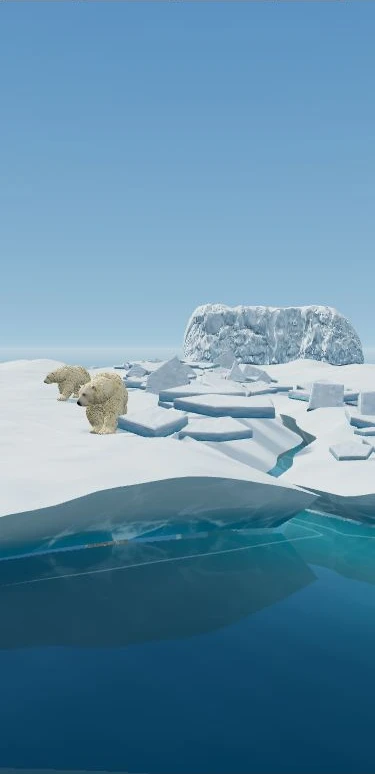
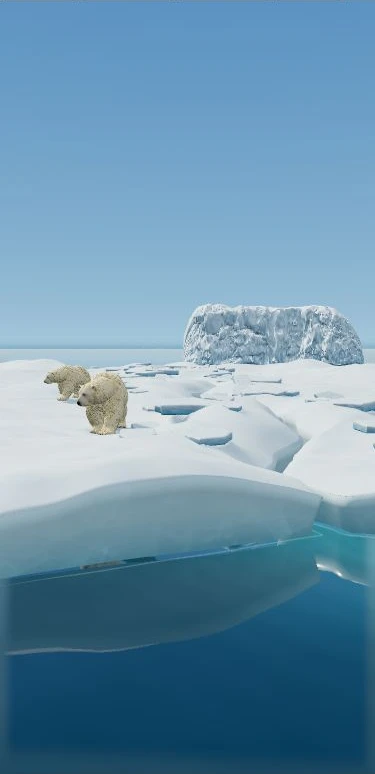
.

diff --git a/arctic-surfaces.js b/arctic-surfaces.js
@@ -1,6 +1,6 @@
 import * as THREE from './assets/vendor/three/three.module.js';
 import {GLTFLoader} from './assets/vendor/three/GLTFLoader.js';
-import './arctic-ice.js?v=00c14636b7';
+import './arctic-ice.js?v=b990c3418e';
 const I=globalThis.ArcticIce;
 
 // Bundled CC0 maps; phone variants use a quarter of the pixels.
@@ -18,13 +18,20 @@ export async function loadSurfaceTextures(low=false){
   return textures;
 }
 export function iceMaterial(){
-  const snow=new THREE.MeshStandardMaterial({color:'#f3faff',roughness:.83,vertexColors:true});
+  const snow=new THREE.MeshStandardMaterial({color:'#f3faff',roughness:.9,vertexColors:true,dithering:true});
   // Opaque scattering avoids glass transmission's screen-space refraction artefacts.
-  const blue=new THREE.MeshPhysicalMaterial({color:'#b0e8f2',roughness:.32,vertexColors:true,clearcoat:.3,clearcoatRoughness:.25,ior:1.31});
+  const blue=new THREE.MeshPhysicalMaterial({color:'#c2e1e9',roughness:.48,vertexColors:true,clearcoat:.1,clearcoatRoughness:.4,ior:1.31,dithering:true});
   for(const [index,material] of [snow,blue].entries()){
     material.onBeforeCompile=shader=>{
-      shader.vertexShader='varying vec3 vIcePoint;\n'+shader.vertexShader.replace('#include <begin_vertex>','#include <begin_vertex>\nvIcePoint=position;');
-      shader.fragmentShader='varying vec3 vIcePoint;\n'+shader.fragmentShader.replace('#include <color_fragment>','#include <color_fragment>\nfloat wetBand=1.-smoothstep(.015,.17,abs(vIcePoint.y));diffuseColor.rgb*=1.-wetBand*.13;\n'+(index===1?'float iceAlbedo=dot(diffuseColor.rgb,vec3(.21,.72,.07));diffuseColor.rgb=mix(vec3(.035,.24,.36),vec3(.62,.89,.96),smoothstep(.015,.65,iceAlbedo));float frost=smoothstep(.12,.68,vIcePoint.y);diffuseColor.rgb=mix(diffuseColor.rgb,vec3(.8,.93,.96),frost*.78);':''));
+      shader.vertexShader='varying vec3 vIcePoint;varying vec3 vIceNormal;\n'+shader.vertexShader.replace('#include <begin_vertex>','#include <begin_vertex>\nvIcePoint=position;vIceNormal=normal;');
+      shader.fragmentShader='varying vec3 vIcePoint;varying vec3 vIceNormal;\n'+shader.fragmentShader;
+      if(index===1){
+        // Object-space projection removes the long UV unwrap's stretched bands.
+        // Two rotated scales break up the recognisable square texture repeats.
+        shader.fragmentShader=shader.fragmentShader.replace('#include <map_pars_fragment>','#include <map_pars_fragment>\n#ifdef USE_MAP\nvec3 iceDetail(vec2 uv){vec2 rotated=mat2(.8,-.6,.6,.8)*uv*.713+vec2(.37,.61);return mix(texture2D(map,uv).rgb,texture2D(map,rotated).rgb,.5);}\n#endif');
+        shader.fragmentShader=shader.fragmentShader.replace('#include <map_fragment>','#ifdef USE_MAP\nvec3 weights=pow(abs(normalize(vIceNormal)),vec3(4.));weights/=max(dot(weights,vec3(1.)),.0001);vec3 p=vIcePoint*.24;vec3 detail=iceDetail(p.zy)*weights.x+iceDetail(p.xz)*weights.y+iceDetail(p.xy)*weights.z;diffuseColor.rgb*=mix(vec3(1.),detail,.38);\n#endif');
+      }
+      shader.fragmentShader=shader.fragmentShader.replace('#include <color_fragment>','#include <color_fragment>\nfloat wetBand=1.-smoothstep(.015,.17,abs(vIcePoint.y));diffuseColor.rgb*=1.-wetBand*.1;\n'+(index===1?'float frost=smoothstep(-.12,.72,vIcePoint.y);diffuseColor.rgb=mix(diffuseColor.rgb,vec3(.82,.91,.94),frost*.58);':''));
       if(index===1)shader.fragmentShader=shader.fragmentShader.replace('#include <emissivemap_fragment>','#include <emissivemap_fragment>\nfloat scatter=exp(-abs(vIcePoint.y+.5)*.38);totalEmissiveRadiance+=vec3(.008,.065,.09)*scatter;');
     };
   }
@@ -34,29 +41,42 @@ export function applyTextures(materials,textures){
   for(const [i,prefix] of ['snow','ice'].entries()){
     const m=materials[i];m.map=textures[prefix+'-color']||null;m.normalMap=textures[prefix+'-normal']||null;
     m.roughnessMap=textures[prefix+'-roughness']||null;m.displacementMap=textures[prefix+'-height']||null;
-    m.normalScale=new THREE.Vector2(i===1?.24:.38,i===1?.24:.38);m.displacementScale=i===1?.012:.025;m.displacementBias=-m.displacementScale*.5;m.needsUpdate=true;
+    m.normalScale=new THREE.Vector2(i===1?.14:.22,i===1?.14:.22);m.displacementScale=i===1?0:.012;m.displacementBias=-m.displacementScale*.5;m.needsUpdate=true;
   }
 }
 export function makeFloe(side,materials,low=false){
   const data=I.build(side,low?.5:1),geometry=new THREE.BufferGeometry();
   geometry.setAttribute('position',new THREE.Float32BufferAttribute(data.positions,3));geometry.setAttribute('color',new THREE.Float32BufferAttribute(data.colors,3));geometry.setAttribute('uv',new THREE.Float32BufferAttribute(data.uv,2));geometry.setIndex(data.indices);
   geometry.addGroup(0,data.topCount,0);geometry.addGroup(data.topCount,data.indices.length-data.topCount,1);geometry.computeVertexNormals();
+  // UVs stay separate, but the cap and wall share a smooth shoulder normal.
+  const normals=geometry.attributes.normal,n=data.ring.length,capStart=1+(data.radials-1)*n;
+  for(let k=0;k<=data.wallLayers;k++){
+    const first=data.wallStart+k*data.wallStride,last=first+n;
+    const normal=new THREE.Vector3().fromBufferAttribute(normals,first).add(new THREE.Vector3().fromBufferAttribute(normals,last)).normalize();
+    normals.setXYZ(first,normal.x,normal.y,normal.z);normals.setXYZ(last,normal.x,normal.y,normal.z);
+  }
+  for(let j=0;j<n;j++){
+    const cap=capStart+j,wall=data.wallStart+j;
+    const normal=new THREE.Vector3().fromBufferAttribute(normals,cap).add(new THREE.Vector3().fromBufferAttribute(normals,wall)).normalize();
+    normals.setXYZ(cap,normal.x,normal.y,normal.z);normals.setXYZ(wall,normal.x,normal.y,normal.z);
+    if(j===0)normals.setXYZ(data.wallStart+n,normal.x,normal.y,normal.z);
+  }
   const group=new THREE.Group(),mesh=new THREE.Mesh(geometry,materials);mesh.castShadow=mesh.receiveShadow=true;group.add(mesh);
   const chipMaterial=new THREE.MeshPhysicalMaterial({color:'#f4fbff',roughness:.52,clearcoat:.14,vertexColors:true});group.userData.rubbleMaterial=chipMaterial;
-  const pose=new THREE.Object3D(),perVariant=low?14:23;
-  // Broad thin plates with bevelled snow rims, rather than round rock-like chunks.
+  const pose=new THREE.Object3D(),perVariant=low?10:17;
+  // Fewer weathered pieces, partly embedded in snow, with varied rounded outlines.
   for(let variant=0;variant<5;variant++){
-    const shape=new THREE.Shape(),corners=4+variant%3;
+    const shape=new THREE.Shape(),corners=7+variant%4;
     for(let j=0;j<corners;j++){const angle=j/corners*Math.PI*2+.25*(I.noise(j,variant)-.5),r=.34+.28*I.noise(j+variant*7,4),x=Math.cos(angle)*r,z=Math.sin(angle)*r;if(j)shape.lineTo(x,z);else shape.moveTo(x,z);}shape.closePath();
-    const plate=new THREE.ExtrudeGeometry(shape,{depth:.19,bevelEnabled:true,bevelThickness:.035,bevelSize:.04,bevelSegments:2,steps:1,curveSegments:1});
+    const plate=new THREE.ExtrudeGeometry(shape,{depth:.19,bevelEnabled:true,bevelThickness:.045,bevelSize:.065,bevelSegments:3,steps:1,curveSegments:1});
     plate.rotateX(-Math.PI/2);plate.translate(0,-.095,0);
     const points=plate.attributes.position,colours=[];
     for(let j=0;j<points.count;j++){const snow=Math.max(0,Math.min(1,(points.getY(j)+.06)/.14));colours.push(.26+snow*.68,.67+snow*.3,.83+snow*.17);}plate.setAttribute('color',new THREE.Float32BufferAttribute(colours,3));
     const chips=new THREE.InstancedMesh(plate,chipMaterial,perVariant);chips.castShadow=chips.receiveShadow=true;
     for(let j=0;j<perVariant;j++){
-      const i=j+variant*perVariant,z=12-I.noise(i+side*47,11)*52,x=I.seam(z)+(side===0?-1:1)*(1.0+I.noise(i+side*31,8)*2.1),s=i%6===0?1.1:.3+I.noise(i,2)*.65;
-      const tilt=i%5===0?.65+I.noise(i,9)*.65:I.noise(i,9)*.32;
-      pose.position.set(x,I.top(x,z)+.1+s*.12,z);pose.scale.set(s*(.8+I.noise(i,2)),s,s*(1.2+I.noise(i,5)));pose.rotation.set(tilt,i*1.3,(I.noise(i,4)-.5)*.55);pose.updateMatrix();chips.setMatrixAt(j,pose.matrix);
+      const i=j+variant*perVariant,z=12-I.noise(i+side*47,11)*52,x=I.seam(z)+(side===0?-1:1)*(1.3+I.noise(i+side*31,8)*2.2),s=i%9===0?.95:.25+I.noise(i,2)*.55;
+      const tilt=i%7===0?.35+I.noise(i,9)*.25:I.noise(i,9)*.16;
+      pose.position.set(x,I.top(x,z)-.02+s*.035,z);pose.scale.set(s*(.8+I.noise(i,2)),s,s*(1.2+I.noise(i,5)));pose.rotation.set(tilt,i*1.3,(I.noise(i,4)-.5)*.25);pose.updateMatrix();chips.setMatrixAt(j,pose.matrix);
     }group.add(chips);
   }
   const rim=[];for(let i=0;i<data.ring.length;i++){const a=data.ring[i],b=data.ring[(i+1)%data.ring.length];rim.push(a[0],.012,a[1],b[0],.012,b[1]);}

diff --git a/arctic-ice.js b/arctic-ice.js
@@ -2,6 +2,7 @@
 (function(host){
   'use strict';
   const mix=(a,b,t)=>a+(b-a)*t;
+  const smooth=(a,b,x)=>{const t=Math.max(0,Math.min(1,(x-a)/(b-a)));return t*t*(3-2*t);};
   const hash=(x,y)=>{const n=Math.sin(x*127.1+y*311.7)*43758.5453123;return n-Math.floor(n);};
   function noise(x,y){const ix=Math.floor(x),iy=Math.floor(y);let u=x-ix,v=y-iy;u=u*u*(3-2*u);v=v*v*(3-2*v);return mix(mix(hash(ix,iy),hash(ix+1,iy),u),mix(hash(ix,iy+1),hash(ix+1,iy+1),u),v);}
   function fbm(x,y){let value=0,amplitude=.55;for(let i=0;i<4;i++){value+=amplitude*noise(x,y);x=x*2.03+11.7;y=y*2.03-7.1;amplitude*=.47;}return value;}
@@ -47,9 +48,11 @@
     const push=(x,y,z,c,u,v)=>{positions.push(x,y,z);colors.push(...c);uv.push(u,v);};
     push(center[0],top(...center),center[1],[.88,.94,.94],center[0]*.15,center[1]*.15);
     for(let r=1;r<=radials;r++)for(let j=0;j<n;j++){
-      const t=r/radials,x=mix(center[0],ring[j][0],t),z=mix(center[1],ring[j][1],t),weather=fbm(x*.27,z*.27),c=.89+weather*.1;
-      const bevel=Math.max(0,Math.min(1,(t-.94)/.06));
-      push(x,top(x,z)-.26*bevel*bevel,z,[c,c+.035,c+.03],x*.15,z*.15);
+      // Concentrate existing vertices at the close-up rim, not the distant centre.
+      const t=1-Math.pow(1-r/radials,1.7),x=mix(center[0],ring[j][0],t),z=mix(center[1],ring[j][1],t),weather=fbm(x*.27,z*.27),c=.89+weather*.1;
+      const edgeDistance=(1-t)*Math.hypot(ring[j][0]-center[0],ring[j][1]-center[1]);
+      const shoulder=.26*(1-smooth(0,.72,edgeDistance));
+      push(x,top(x,z)-shoulder,z,[c,c+.035,c+.03],x*.15,z*.15);
     }
     for(let j=0;j<n;j++)indices.push(0,1+j,1+(j+1)%n);
     for(let r=1;r<radials;r++)for(let j=0;j<n;j++){
@@ -59,16 +62,18 @@
     const stride=n+1;
     // Duplicate the closing vertex so the UV seam does not stretch the entire texture into one triangle.
     for(let k=0;k<=layers;k++)for(let j=0;j<=n;j++){
-      const t=k/layers,p=ring[j%n],depth=4+.9*fbm(p[0]*.2,p[1]*.2),taper=1-.09*t-.025*Math.exp(-Math.pow((t-.2)/.13,2)),rough=Math.sin(t*Math.PI)*(.07*Math.sin(p[0]*2.3+p[1]*1.8+t*17)+.055*Math.sin(p[1]*4.1+t*9));
-      const x=center[0]+(p[0]-center[0])*taper+rough,z=center[1]+(p[1]-center[1])*taper+rough*.6,y=mix(top(...p)-.26,-depth,t),blue=Math.min(1,t*3),shade=.98-.28*t;
-      push(x,y,z,[mix(.91,.42,blue)*shade,mix(.97,.62,blue)*shade,mix(.97,.7,blue)*shade],distance[j]/5,y*.28);
+      const t=k/layers,p=ring[j%n],depth=4+.9*fbm(p[0]*.2,p[1]*.2),along=p[0]*.61+p[1]*.79,taper=1-(.045+.025*noise(along*.17,3))*t;
+      // Coherent melt relief avoids the repeated horizontal sine-wave shelves.
+      const relief=Math.sin(t*Math.PI)*(.65*(fbm(along*.48,t*3.3)-.45)+.13*(noise(along*1.6,t*.7)-.5));
+      const x=center[0]+(p[0]-center[0])*taper+relief,z=center[1]+(p[1]-center[1])*taper+relief*.6,y=mix(top(...p)-.26,-depth,t),blue=smooth(0,.48,t),shade=1-.2*t;
+      push(x,y,z,[mix(.94,.57,blue)*shade,mix(.97,.77,blue)*shade,mix(.98,.85,blue)*shade],distance[j]/2.2,y*.55);
     }
     for(let k=0;k<layers;k++)for(let j=0;j<n;j++){
       const a=wallStart+k*stride+j,b=a+1,c=a+stride,d=c+1;indices.push(a,d,b,a,c,d);
     }
     const bottom=positions.length/3;push(center[0],-4.8,center[1],[.28,.4,.47],0,0);
     for(let j=0;j<n;j++)indices.push(bottom,wallStart+layers*stride+j+1,wallStart+layers*stride+j);
-    return {positions,colors,uv,indices,topCount,ring,center};
+    return {positions,colors,uv,indices,topCount,ring,center,radials,wallStart,wallStride:stride,wallLayers:layers};
   }
   const api={noise,fbm,seam,top,outline,build};if(typeof module==='object'&&module.exports)module.exports=api;else host.ArcticIce=api;
 })(globalThis);

diff --git a/arctic-story.js b/arctic-story.js
@@ -11,7 +11,7 @@ if(root&&M){
   const reduced=matchMedia('(prefers-reduced-motion: reduce)');
   // Start the module download beside the data requests, rather than after them.
   let worldModule=null;
-  const loadWorld=()=>worldModule||(worldModule=import('./arctic-world.js?v=b546026ca1'));
+  const loadWorld=()=>worldModule||(worldModule=import('./arctic-world.js?v=068d8acdb5'));
   let world=null,worldPromise=null,data=null,mapData=null,live=false,visible=true,raf=0,active=-1,selectedYear=1979,manualStill=false,lastProgress=0,disposed=false;
   let route=document.body.dataset.view==='climate-story',pendingChapter=null,hasActivated=false,renderProgress=null,lastFrameTime=0,assetsReady=false,activation=0;
   const top=()=>['.nav','.view-bar'].reduce((height,selector)=>{const el=document.querySelector(selector);return height+(el&&['sticky','fixed'].includes(getComputedStyle(el).position)?el.getBoundingClientRect().height:0);},0);

diff --git a/arctic-world.js b/arctic-world.js
@@ -1,6 +1,6 @@
 import * as THREE from './assets/vendor/three/three.module.js';
-import {iceMaterial,makeFloe,iceberg,fragments,loadSurfaceTextures,applyTextures} from './arctic-surfaces.js?v=588409c7a3';
-import {ArcticWildlife} from './arctic-wildlife.js?v=6e5fba698e';
+import {iceMaterial,makeFloe,iceberg,fragments,loadSurfaceTextures,applyTextures} from './arctic-surfaces.js?v=6eda190933';
+import {ArcticWildlife} from './arctic-wildlife.js?v=a16811df99';
 const skyVertex='varying vec3 vP;void main(){vP=position;gl_Position=projectionMatrix*modelViewMatrix*vec4(position,1.);}';
 const skyFragment=[
 'varying vec3 vP;uniform float underwater;uniform sampler2D sky;uniform float hasSky;',

diff --git a/script.js b/script.js
@@ -688,7 +688,7 @@ document.addEventListener('visibilitychange', () => {
   let loading;
   function loadArctic(){
     if(document.body.dataset.view!=='climate-story'||loading)return;
-    loading=import('./arctic-story.js?v=b4895c7bcd').catch(error=>{console.warn('Using Arctic still views:',error);loading=null;});
+    loading=import('./arctic-story.js?v=e7e29e62b2').catch(error=>{console.warn('Using Arctic still views:',error);loading=null;});
   }
   window.addEventListener('app:view',loadArctic);
   loadArctic();

diff --git a/site.js b/site.js
@@ -890,7 +890,7 @@ document.addEventListener('visibilitychange', () => {
   let loading;
   function loadArctic(){
     if(document.body.dataset.view!=='climate-story'||loading)return;
-    loading=import('./arctic-story.js?v=b4895c7bcd').catch(error=>{console.warn('Using Arctic still views:',error);loading=null;});
+    loading=import('./arctic-story.js?v=e7e29e62b2').catch(error=>{console.warn('Using Arctic still views:',error);loading=null;});
   }
   window.addEventListener('app:view',loadArctic);
   loadArctic();

diff --git a/arctic-wildlife.js b/arctic-wildlife.js
@@ -1,6 +1,6 @@
 import * as THREE from './assets/vendor/three/three.module.js';
 import {GLTFLoader} from './assets/vendor/three/GLTFLoader.js';
-import './arctic-ice.js?v=00c14636b7';
+import './arctic-ice.js?v=b990c3418e';
 const I=globalThis.ArcticIce,templates=new Map();
 async function bearTemplate(low){
   if(!templates.has(low)){

diff --git a/index.html b/index.html
@@ -816,6 +816,6 @@
       </div>
     </div>
     <script src="assets/data/weather-snapshot.js" defer></script>
-    <script src="site.js?v=43b7660b2a" defer></script>
+    <script src="site.js?v=ff98f3fe5f" defer></script>
   </body>
 </html>
